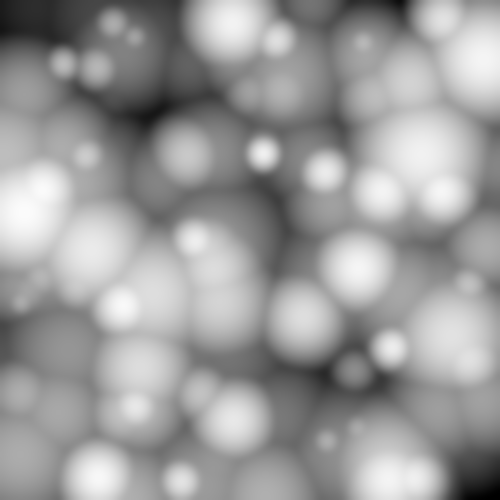
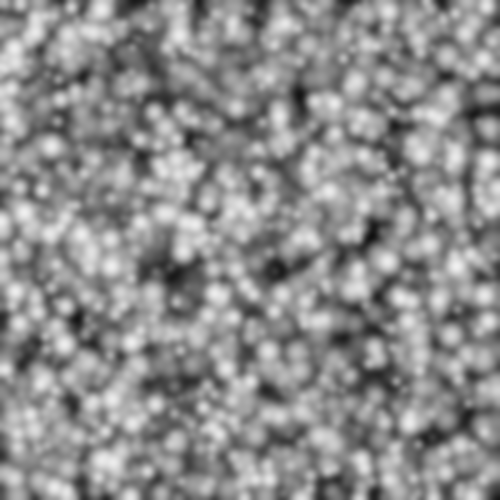
make larger environment

diff --git a/generate_terrain.py b/generate_terrain.py
@@ -6,11 +6,11 @@ from scipy.ndimage import gaussian_filter
 
 def get_args():
     parser = argparse.ArgumentParser(description="Generate uneven terrain heightfield for MuJoCo")
-    parser.add_argument("--size", type=float, default=20.0, help="Terrain size in meters (default: 20m x 20m)")
-    parser.add_argument("--resolution", type=float, default=0.04, help="Grid resolution in meters (default: 4cm)")
-    parser.add_argument("--num_bumps", type=int, default=300, help="Number of bumps to generate (default: 300)")
-    parser.add_argument("--min_radius", type=int, default=20, help="Minimum bump radius in cells (default: 20)")
-    parser.add_argument("--max_radius", type=int, default=100, help="Maximum bump radius in cells (default: 100)")
+    parser.add_argument("--size", type=float, default=100.0, help="Terrain size in meters (default: 100m x 100m)")
+    parser.add_argument("--resolution", type=float, default=0.2, help="Grid resolution in meters (default: 20cm)")
+    parser.add_argument("--num_bumps", type=int, default=6000, help="Number of bumps to generate (default: 6000)")
+    parser.add_argument("--min_radius", type=int, default=4, help="Minimum bump radius in cells (default: 4)")
+    parser.add_argument("--max_radius", type=int, default=20, help="Maximum bump radius in cells (default: 20)")
     parser.add_argument("--min_height", type=float, default=0.0, help="Minimum bump height fraction (default: 0.0)")
     parser.add_argument("--max_height", type=float, default=1.0, help="Maximum bump height fraction (default: 1.0)")
     parser.add_argument("--height_bias", type=float, default=2.0, help="Power law bias for height distribution (>1 favors smaller bumps, default: 2.0)")

diff --git a/README_terrain.md b/README_terrain.md
@@ -8,7 +8,7 @@ Creates a heightfield PNG for uneven terrain in MuJoCo.
 python generate_terrain.py
 ```
 
-This generates `common/heightfields/terrain.png` (20m×20m terrain with smooth bumps).
+This generates `common/heightfields/terrain.png` (100m×100m terrain with smooth bumps).
 
 ## Preview Terrain
 
